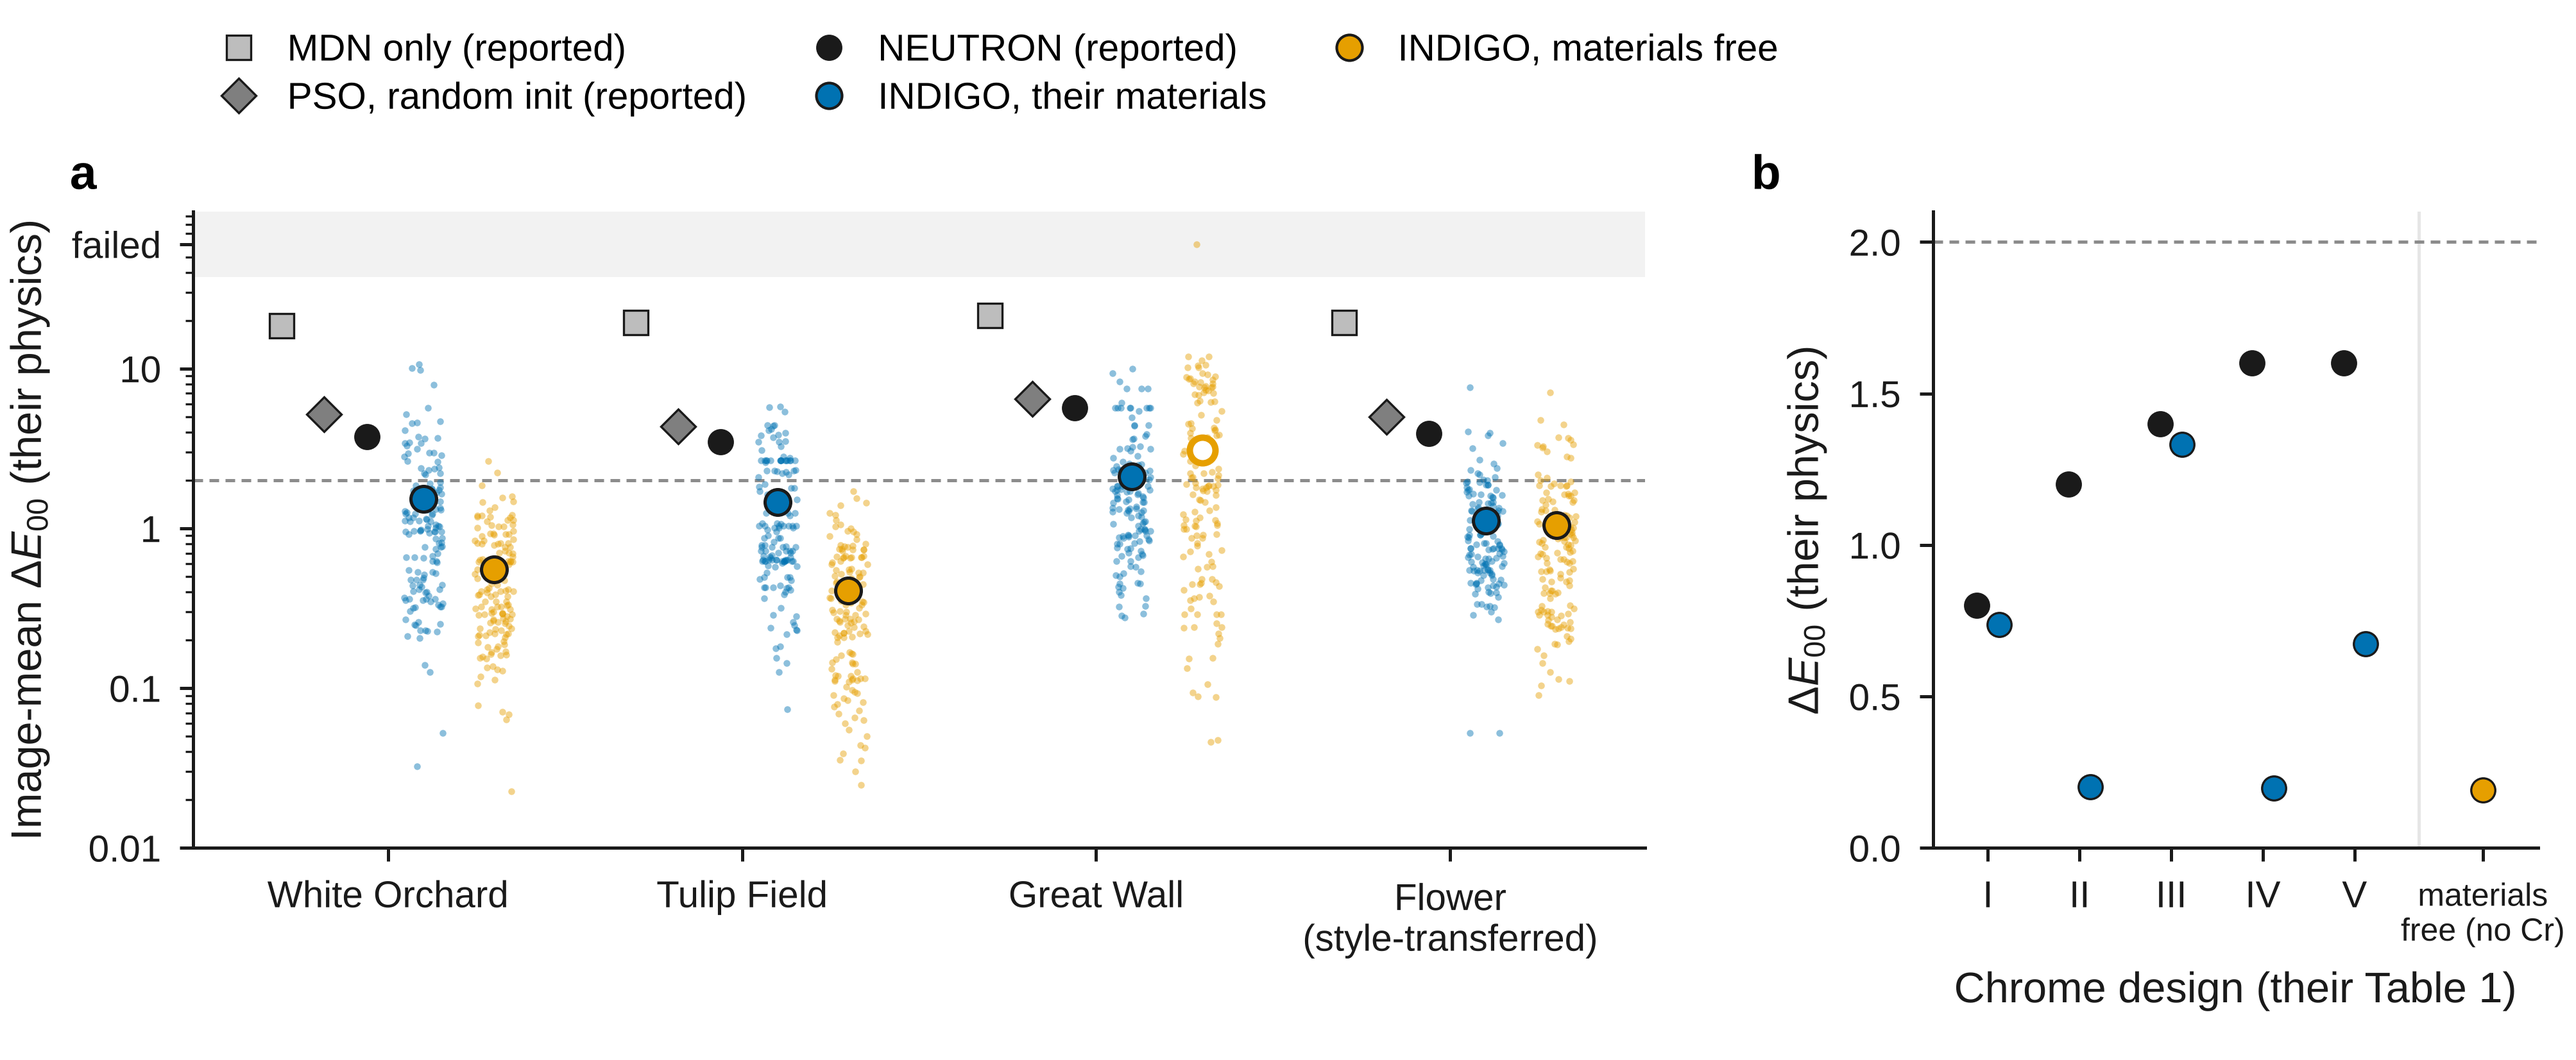
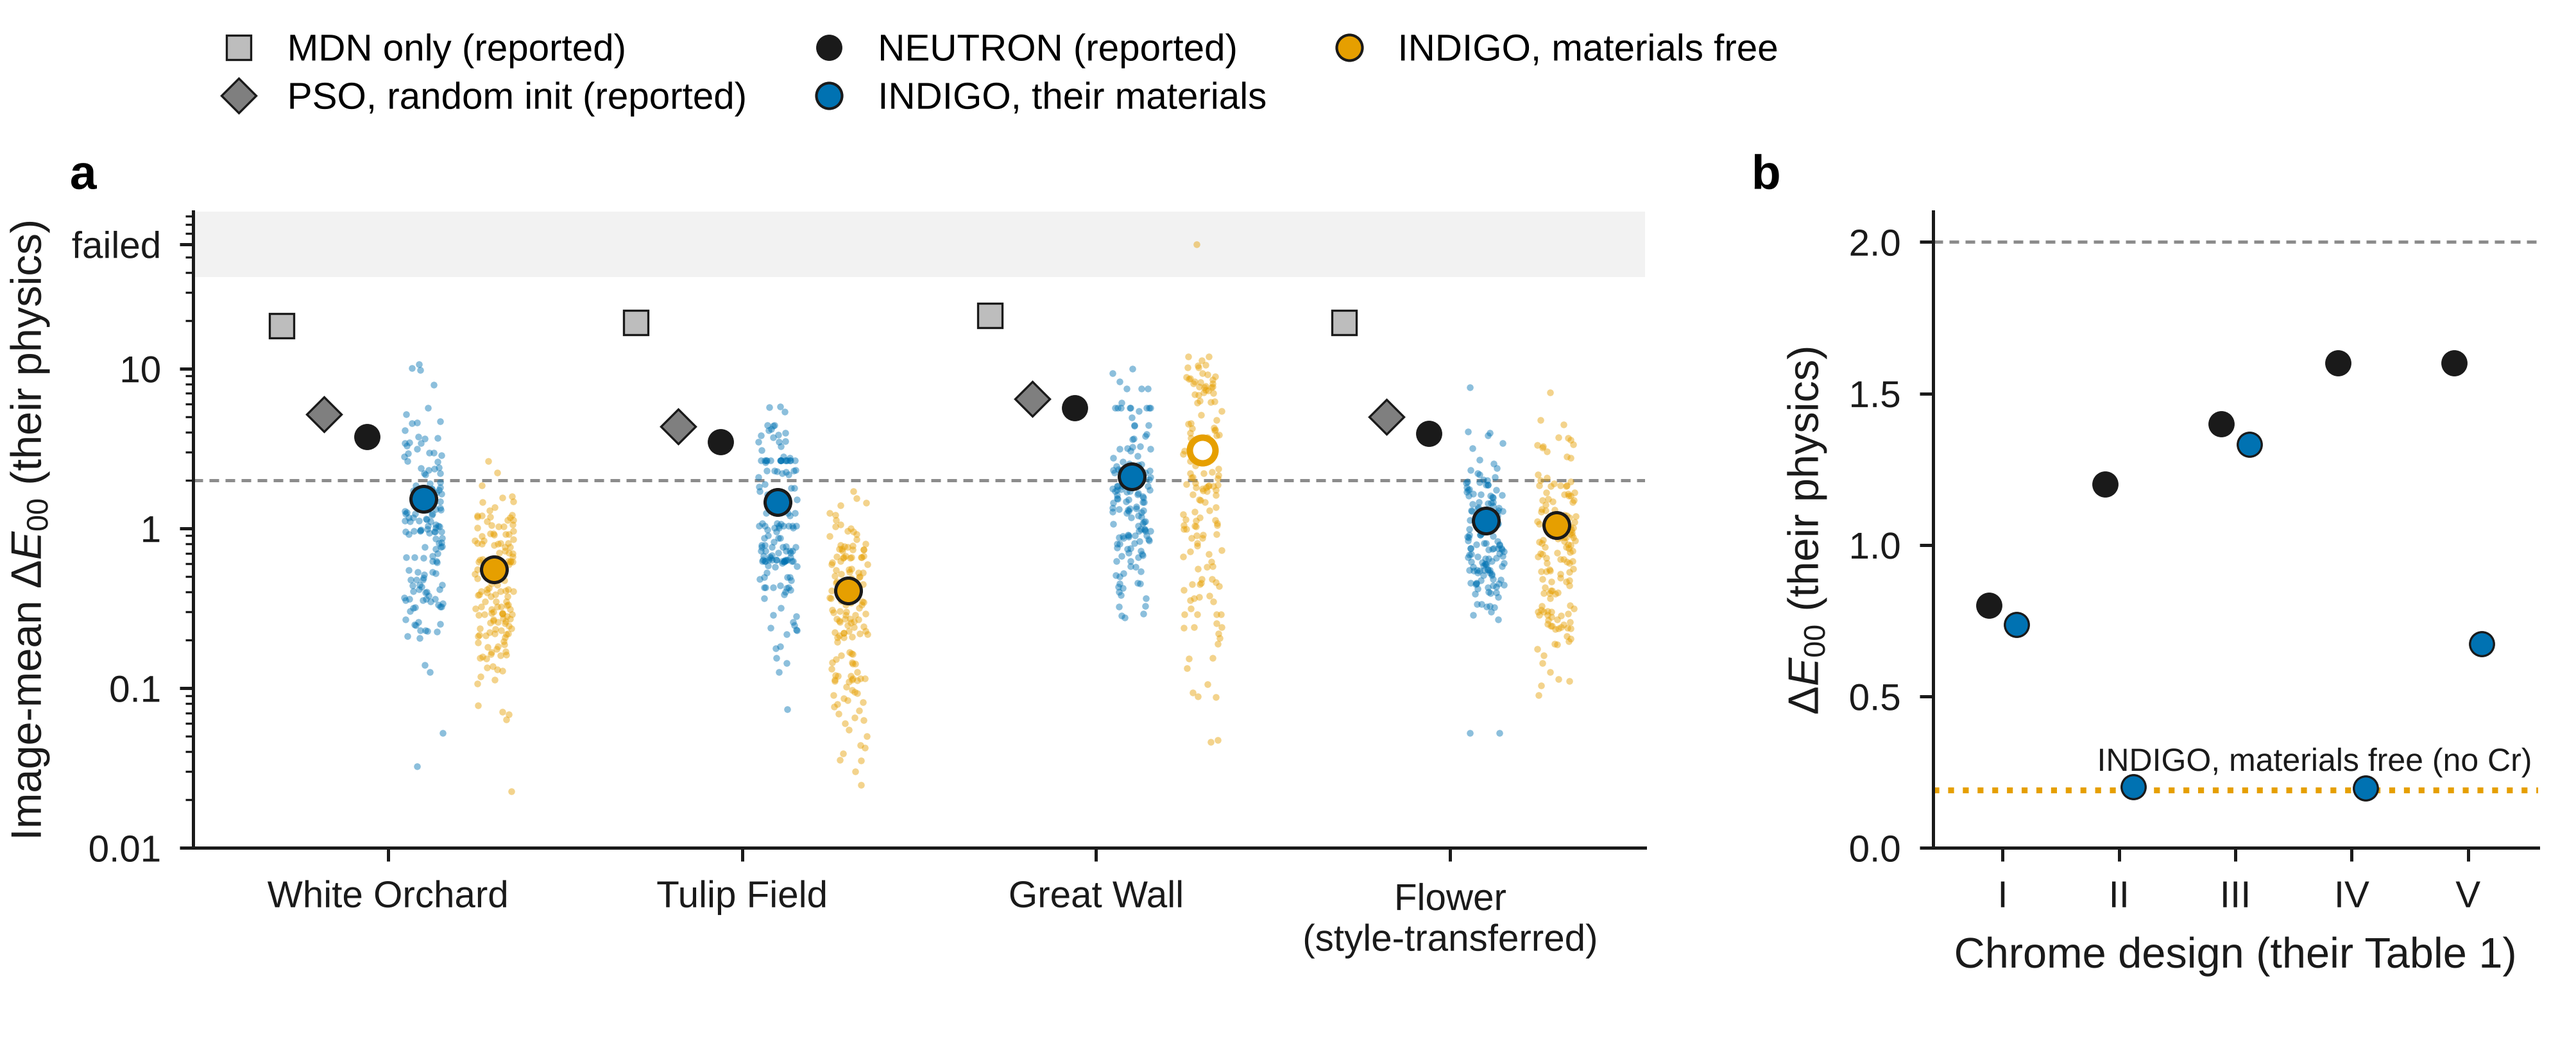
NEUTRON figure: free-material chrome result as a dotted line across panel b
Claude-Session: https://claude.ai/code/session_01XG1CYUQ4Nn2RYcqixvqBTY

diff --git a/results/paper/neutron_caption.tex b/results/paper/neutron_caption.tex
@@ -1,2 +1,2 @@
 % Generated by scripts/paper_figures/fig_neutron.py; edit the script, not this file.
-\caption{\textbf{INDIGO against NEUTRON on NEUTRON's own targets, scored in NEUTRON's physics.} All INDIGO stacks are re-simulated with NEUTRON's transfer-matrix code and whole-nanometer thicknesses. \textbf{a}, image-mean $\Delta E_{00}$ for the pictures of their Table 2. Gray markers are the values they report for MDN only, PSO with random initialization, and NEUTRON. INDIGO is shown with each picture's own material set (their materials) and choosing from their 20 materials (materials free): circles are means with 95\% intervals, dots are individual colors. For each picture, 150 colors were drawn with replacement, with probability proportional to pixel count, from the picture's 1,339--3,267 unique colors, so their mean estimates the image mean. Only 4 of their 5 pictures are shown: Street (style-transferred) could not be identified in their repository. One color in the materials-free Great Wall set has no result (a sampler crash, since fixed); it is drawn on the \emph{failed} band and left out of that set's mean, which is drawn hollow, until it is rerun. The dashed line marks $\Delta E_{00} = 2$. \textbf{b}, the chrome target. Designs I--V are their Table 1 material combinations, in their order (ranked best to worst by NEUTRON), so their series rises by construction; INDIGO is given the same materials. The last position is INDIGO choosing freely from the pool with chromium excluded (ZnO/Zn/Al$_{2}$O$_{3}$/ZnSe/Cu, $\Delta E_{00} = 0.19$); NEUTRON reports no free-material chrome design (their best is 0.8).}
+\caption{\textbf{INDIGO against NEUTRON on NEUTRON's own targets, scored in NEUTRON's physics.} All INDIGO stacks are re-simulated with NEUTRON's transfer-matrix code and whole-nanometer thicknesses. \textbf{a}, image-mean $\Delta E_{00}$ for the pictures of their Table 2. Gray markers are the values they report for MDN only, PSO with random initialization, and NEUTRON. INDIGO is shown with each picture's own material set (their materials) and choosing from their 20 materials (materials free): circles are means with 95\% intervals, dots are individual colors. For each picture, 150 colors were drawn with replacement, with probability proportional to pixel count, from the picture's 1,339--3,267 unique colors, so their mean estimates the image mean. Only 4 of their 5 pictures are shown: Street (style-transferred) could not be identified in their repository. One color in the materials-free Great Wall set has no result (a sampler crash, since fixed); it is drawn on the \emph{failed} band and left out of that set's mean, which is drawn hollow, until it is rerun. The dashed line marks $\Delta E_{00} = 2$. \textbf{b}, the chrome target. Designs I--V are their Table 1 material combinations, in their order (ranked best to worst by NEUTRON), so their series rises by construction; INDIGO is given the same materials. The orange dotted line is INDIGO choosing freely from the pool with chromium excluded (ZnO/Zn/Al$_{2}$O$_{3}$/ZnSe/Cu, $\Delta E_{00} = 0.19$); it is one result for the same target, drawn across every design for comparison. NEUTRON reports no free-material chrome design (their best is 0.8).}

diff --git a/scripts/paper_figures/fig_neutron.py b/scripts/paper_figures/fig_neutron.py
@@ -50,7 +50,7 @@ LABELS = {
     "y": r"Image-mean $\Delta E_{00}$ (their physics)",
     "b_y": r"$\Delta E_{00}$ (their physics)",
     "b_x": "Chrome design (their Table 1)",
-    "free_x": "materials\nfree (no Cr)",
+    "free_line": "INDIGO, materials free (no Cr)",
     "fail": "failed",
     "Flower (style-transferred)": "Flower\n(style-transferred)",
 }
@@ -118,8 +118,9 @@ def write_caption(reported, pics, cr, free_cr, free_row, order, missing, notes):
         " The dashed line marks $\\Delta E_{00} = 2$. \\textbf{b}, the chrome target. Designs "
         "I--V are their Table 1 material combinations, in their order (ranked best to worst by "
         "NEUTRON), so their series rises by construction; INDIGO is given the same materials. "
-        "The last position is INDIGO choosing freely from the pool with chromium excluded "
-        f"({'/'.join(chem(m) for m in free_row['materials'])}, $\\Delta E_{{00}} = {free_cr:.2f}$); NEUTRON reports no "
+        "The orange dotted line is INDIGO choosing freely from the pool with chromium excluded "
+        f"({'/'.join(chem(m) for m in free_row['materials'])}, $\\Delta E_{{00}} = {free_cr:.2f}$); it is one "
+        "result for the same target, drawn across every design for comparison. NEUTRON reports no "
         f"free-material chrome design (their best is {best_rep:.1f}).}}\n")
     (S.REPO / "results/paper/neutron_caption.tex").write_text(txt)
 
@@ -186,14 +187,12 @@ def main():
             mew=0.4, zorder=3)
     bx.plot(xb + 0.12, [cr[k]["indigo"] for k in ks], "o", ms=4.5, color=ARM_COL["fixed"],
             mec=S.INK, mew=0.4, zorder=3)
-    xf = len(ks) + 0.4                        # sixth position: no NEUTRON counterpart
-    bx.plot(xf, free_cr, "o", ms=4.5, color=ARM_COL["any"], mec=S.INK, mew=0.4, zorder=3)
-    bx.axvline(len(ks) - 0.3, color=S.LIGHT, lw=0.6, zorder=0)
-    bx.set_xticks(list(xb) + [xf])
-    bx.set_xticklabels(ks + [LABELS["free_x"]])
-    for lab in bx.get_xticklabels()[-1:]:
-        lab.set_fontsize(S.SMALL_PT - 1)
-    bx.set_xlim(-0.6, xf + 0.6)
+    # Materials free: one result for the chrome target, so a line across every design.
+    bx.axhline(free_cr, color=ARM_COL["any"], lw=1.1, ls=(0, (1, 1.5)), zorder=2)
+    bx.text(len(ks) - 0.45, free_cr + 0.04, LABELS["free_line"], ha="right", va="bottom",
+            fontsize=S.SMALL_PT - 1, color=S.INK)
+    bx.set_xticks(xb); bx.set_xticklabels(ks)
+    bx.set_xlim(-0.6, len(ks) - 0.4)
     bx.set_ylim(0, 2.1)
     bx.axhline(2, color=S.GREY, lw=0.6, ls=(0, (3, 2)))
     bx.set_ylabel(LABELS["b_y"]); bx.set_xlabel(LABELS["b_x"])
